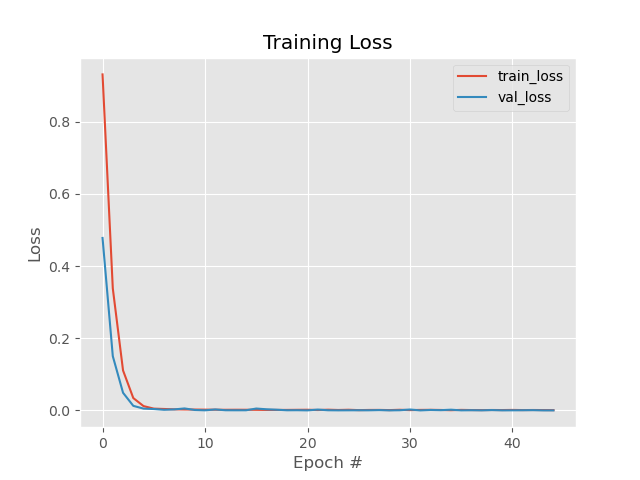
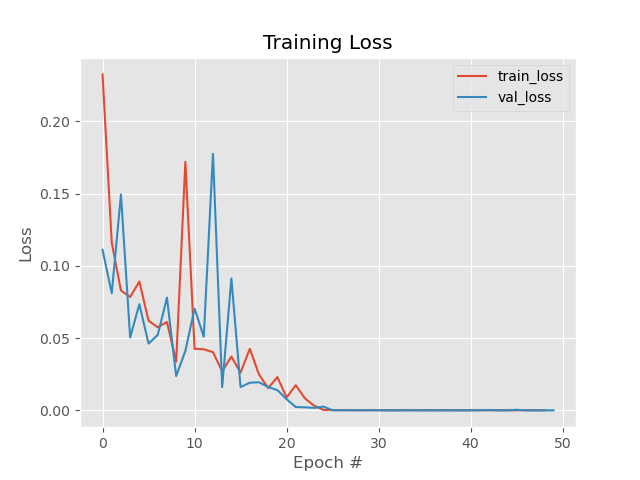
multi time step forecasting

diff --git a/predict.py b/predict.py
@@ -3,6 +3,7 @@ import matplotlib.pyplot as plt
 import torch
 import numpy as np
 import pdb
+from hyperparams import Hyperparameters as hp
 
 
 def load_model(path: str = './output/model.pth') -> torch.nn.Module:
@@ -15,80 +16,51 @@ def main():
     model = load_model(path='./output/model.pth')
     model.eval()
 
-    # simulator = CWSimulator(N_TRAJ=1)
+    simulator = CWSimulator(N_TRAJ=1)
     # Create test data from simulator.py
-    # trajectories = simulator.simulate_trajectories()
+    trajectories = simulator.simulate_trajectories()
 
-    dt = 10 # seconds. Time step
-    T = 60*60 # seconds. Period of the orbit
-    n = 2*np.pi/T # rad/s. Orbital rate
-    N_TRAJ = 1 # Number of trajectories
-    SEQUENCE_LENGTH = 10 # Number of time steps to use for prediction
-    max_t = T # seconds. Maximum time to simulate
-    times = torch.arange(0, max_t+dt, dt)
-    x = (
-        (2 * 0.1 / n - 3 * 1) * torch.cos(n * times)
-        + 0.1 / n * torch.sin(n * times)
-        + (4 * 1 - 2 * 0.1 / n)
-    )   
+    trajectories = torch.tensor(trajectories).float()
+
+    # if 2D, add a third dimension
+    if len(trajectories.shape) == 2:
+        trajectories = trajectories.unsqueeze(2)
+    print(f'trajectories shape: {trajectories.shape}')
+
+    seq_length = simulator.SEQUENCE_LENGTH
 
 
-
-    seq_length = SEQUENCE_LENGTH
-    ynn = np.zeros((len(times)))
-    ynn[0:seq_length] = x[0:seq_length]
-    print(f'lenght of times: {len(times)}')
-    with torch.no_grad():
-        for k in range(seq_length, len(times)):
-            rnn_input = torch.tensor(ynn[k - seq_length:k]).float().unsqueeze(1).unsqueeze(0)
-            # import pdb; pdb.set_trace()
-            # print(f'rnn_input shape: {rnn_input.shape}')
-            # pdb.set_trace()
-
-            output = model(rnn_input).squeeze().numpy()
-            # print(f'output shape: {np.shape(output)}')
-            ynn[k] = output
-
+    ynn = np.zeros((simulator.N_TRAJ, len(simulator.times), hp.N_INPUT_FEATURES))
+    ynn[:, 0:seq_length, :] = trajectories[:, 0:seq_length, :]
+    print(f'lenght of times: {len(simulator.times)}')
     
-    fig, ax = plt.subplots(1,1,subplot_kw={'projection': '3d'})
+    with torch.no_grad():
+        for j in range(simulator.N_TRAJ):
+            for k in range(seq_length, len(simulator.times) - hp.N_FUTURE_STEPS, hp.N_FUTURE_STEPS):
+                # rnn_input = torch.tensor(ynn[j, k - seq_length:k, :]).float().unsqueeze(0)
+                rnn_input = trajectories[j, k - seq_length:k, :].unsqueeze(0)
 
-    ax.plot(times, x, linewidth=1)
-    ax.scatter(0, x[0], color='r')
-    ax.plot(times, ynn, linewidth=1, linestyle='--')
-    ax.scatter(seq_length, ynn[seq_length], color='m')
+                output = model(rnn_input).numpy()
+                # print(f'output shape: {np.shape(output)}')
+                ynn[j, k:k+hp.N_FUTURE_STEPS, :] = output
+
+
+    _, ax = plt.subplots(2,1)
+    for j in range(simulator.N_TRAJ):
+
+        x = trajectories[j,:,:].squeeze().numpy()
+        ax[0].plot(simulator.times, x, linewidth=1,marker='o')
+        # ax.scatter(x[0], color='r')
+        x_ = ynn[j,:,:].squeeze()
+        ax[0].plot(simulator.times, x_, linewidth=1, linestyle='--', marker='x')
+        # ax.scatter(x_[seq_length], color='m')
+
+    ax[0].scatter(0,0, color='k')
+
+    ax[1].plot(simulator.times, x - x_, linewidth=1, marker='o', markersize=0.1)
 
 
     plt.show()
-
-
-    # ynn = np.zeros((simulator.N_TRAJ, len(simulator.times), 3))
-    # ynn[:, 0:seq_length, :] = trajectories[:, 0:seq_length, :]
-    # print(f'lenght of times: {len(simulator.times)}')
-    # with torch.no_grad():
-    #     for j in range(simulator.N_TRAJ):
-    #         for k in range(seq_length, len(simulator.times)):
-    #             rnn_input = torch.tensor(ynn[j, k - seq_length:k, :]).float().unsqueeze(0)
-    #             # import pdb; pdb.set_trace()
-
-    #             # print(f'rnn_input shape: {rnn_input.shape}')
-    #             output = model(rnn_input).squeeze().numpy()
-    #             # print(f'output shape: {np.shape(output)}')
-    #             ynn[j, k, :] = output
-
-    
-    # fig, ax = plt.subplots(1,1,subplot_kw={'projection': '3d'})
-    # for j in range(simulator.N_TRAJ):
-
-    #     x, y, z = trajectories[j,:,:].T
-    #     ax.plot(x, y, z, linewidth=1)
-    #     ax.scatter(x[0], y[0], z[0], color='r')
-    #     x_, y_, z_ = ynn[j,:,:].T
-    #     ax.plot(x_, y_, z_, linewidth=1, linestyle='--')
-    #     ax.scatter(x_[seq_length], y_[seq_length], z_[seq_length], color='m')
-
-    # ax.scatter(0,0, color='k')
-
-    # plt.show()
     pdb.set_trace()
                 
 if __name__ == '__main__':

diff --git a/train_rnn.py b/train_rnn.py
@@ -18,12 +18,16 @@ from simulator import CWSimulator
 from hyperparams import Hyperparameters as hp
 from rnn import LSTM
 
+import pdb
 # test_data = datasets.KMNIST(
 #     root="data",
 #     train=False,
 #     download=True,
 #     transform=transform,
 # )
+
+
+
 
 class Trainer():
 
@@ -59,7 +63,6 @@ class Trainer():
 
             pred = model(X)
             loss = loss_fn(pred, y)
-
 
             optimizer.zero_grad()
             loss.backward()
@@ -119,8 +122,7 @@ class Trainer():
 
 def main():
 
-    N_INPUT_FEATURES = 1 # 1D
-
+      
     ap = argparse.ArgumentParser()
     ap.add_argument("-lr", "--learning_rate", type=float, default=hp.INIT_LR, help="learning rate")
     ap.add_argument("-bs", "--batch_size", type=int, default=hp.BATCH_SIZE, help="batch size")
@@ -149,8 +151,8 @@ def main():
     print(f'[INFO] Creating datasets...')
     print("[INFO] generating the train/validation split...")
     train_split = int(trajectories.shape[0] * hp.TRAIN_SPLIT)
-    training_data = CWTrajDataset(trajectories=trajectories[:train_split], sequence_len=simulator.SEQUENCE_LENGTH, n_input_features=N_INPUT_FEATURES)
-    val_data = CWTrajDataset(trajectories=trajectories[train_split:], sequence_len=simulator.SEQUENCE_LENGTH, n_input_features=N_INPUT_FEATURES)
+    training_data = CWTrajDataset(trajectories=trajectories[:train_split], sequence_len=simulator.SEQUENCE_LENGTH, n_input_features=hp.N_INPUT_FEATURES, future_len=hp.N_FUTURE_STEPS)
+    val_data = CWTrajDataset(trajectories=trajectories[train_split:], sequence_len=simulator.SEQUENCE_LENGTH, n_input_features=hp.N_INPUT_FEATURES, future_len=hp.N_FUTURE_STEPS)
 
     # print(f'Length of training data: {len(training_data)}')
     # training_data_size = int(len(training_data) * hp.TRAIN_SPLIT)
@@ -163,6 +165,7 @@ def main():
     # print(f'dataloader length: {len(train_dataloader)}')
 
     # batch, truth = next(iter(train_dataloader)) 
+    # import pdb; pdb.set_trace()
     # print(f'batch length: {len(batch)}')
     # fig, ax = plt.subplots(1,1)
     # for i in range(batch.shape[0]):
@@ -177,10 +180,10 @@ def main():
     # import pdb; pdb.set_trace()
 
     # model, loss function and optimization strategy definition
-    model = LSTM(input_size=N_INPUT_FEATURES, hidden_size=hp.HIDDEN_SIZE, output_size=N_INPUT_FEATURES, num_layers=hp.NUM_LAYERS).to(device)
+    model = LSTM(input_size=hp.N_INPUT_FEATURES, hidden_size=hp.HIDDEN_SIZE, output_size=hp.N_FUTURE_STEPS, num_layers=hp.NUM_LAYERS).to(device)
     loss_fn = nn.MSELoss()
     optimizer = Adam(model.parameters(), lr=hp.INIT_LR) # 
-    # scheduler = MultiStepLR(optimizer, milestones=[200,600, 800], gamma=0.1)
+    scheduler = MultiStepLR(optimizer, milestones=hp.MILESTONES, gamma=0.1)
 
     H = {
         "train_loss": [],
@@ -196,7 +199,7 @@ def main():
         print(f"Epoch {t+1}/{args["epochs"]}\n-------------------------------")
         train_loss = trainer.train(train_dataloader, model, loss_fn, optimizer, device)
         val_loss = trainer.validate(val_dataloader, model, loss_fn, device)
-        # scheduler.step()
+        scheduler.step()
         # print(f'Learning rate: {scheduler.get_last_lr()}')
 
         H["train_loss"].append(train_loss)

diff --git a/dataset.py b/dataset.py
@@ -4,21 +4,22 @@ from torch.utils.data import Dataset
 
 
 class CWTrajDataset(Dataset):
-    def __init__(self, trajectories: torch.Tensor, sequence_len: int, transform=None, target_transform=None, n_input_features: int=1):
+    def __init__(self, trajectories: torch.Tensor, sequence_len: int, transform=None, target_transform=None, n_input_features: int=1, future_len: int=5):
         
         self.trajectories = trajectories
         self.n_traj = trajectories.shape[0]
         self.traj_len = trajectories.shape[1]
         self.sequence_len = sequence_len
         self.n_input_features = n_input_features
+        self.future_len = future_len    
 
         self.inputs = torch.zeros((self.n_traj * (self.traj_len - self.sequence_len - 1), self.sequence_len, n_input_features))
-        self.outputs = torch.zeros((self.n_traj * (self.traj_len - self.sequence_len - 1), n_input_features))
+        self.outputs = torch.zeros((self.n_traj * (self.traj_len - self.sequence_len - 1), self.future_len, n_input_features))
 
         for j in range(self.n_traj):
-            for k in range(self.traj_len - self.sequence_len - 1):
-                self.inputs[j * (self.traj_len - self.sequence_len - 1) + k, :, :] = self.trajectories[j, k:k + self.sequence_len, :]
-                self.outputs[j * (self.traj_len - self.sequence_len - 1) + k, :] = self.trajectories[j, k + self.sequence_len, :]
+            for k in range(self.traj_len - self.sequence_len - self.future_len - 1):
+                self.inputs[j * (self.traj_len - self.sequence_len - self.future_len - 1) + k, :, :] = self.trajectories[j, k:(k + self.sequence_len), :]
+                self.outputs[j * (self.traj_len - self.sequence_len - self.future_len - 1) + k, :, :] = self.trajectories[j, (k + self.sequence_len): (k + self.sequence_len + self.future_len), :]
                 
         self.transform = transform
         self.target_transform = target_transform
@@ -34,7 +35,7 @@ class CWTrajDataset(Dataset):
         if self.transform:
             input = self.transform(input)
 
-        output = self.outputs[idx,:]
+        output = self.outputs[idx,:,:]
         if self.target_transform:
             output = self.target_transform(output)
         return input, output

diff --git a/simulator.py b/simulator.py
@@ -47,42 +47,4 @@ class CWSimulator():
 
         X_t = np.asarray([[self.relative_position(X_i=X_i, t=t) for t in self.times] for X_i in X_is])
 
-        # , subplot_kw={'projection': '3d'}
-        # fig, ax = plt.subplots(1,1)
-        # for j in range(N_TRAJ):
-        #     x, y, z = X_t[j,:,:].T
-            # , z, , z[0], ,0
-        #     ax.plot(x, y, linewidth=1)
-        #     ax.scatter(x[0],y[0], color='r')
-        # ax.scatter(0,0, color='k')
-        # plt.show()
-
         return X_t
-
-    # def create_training_data(self, X_t: np.ndarray=0) -> tuple[np.ndarray, np.ndarray]:
-
-        # rnn_input = np.zeros((self.N_TRAJ * (len(self.times) - self.SEQUENCE_LENGTH - 1), self.SEQUENCE_LENGTH, 3))
-        # rnn_output = np.zeros((self.N_TRAJ * (len(self.times) - self.SEQUENCE_LENGTH - 1), 3))
-
-        # for j in range(self.N_TRAJ):
-        #     for k in range(len(self.times) - self.SEQUENCE_LENGTH - 1):
-        #         rnn_input[j * (len(self.times) - self.SEQUENCE_LENGTH - 1) + k, :, :] = X_t[j, k:k + self.SEQUENCE_LENGTH, :]
-        #         rnn_output[j * (len(self.times) - self.SEQUENCE_LENGTH - 1) + k, :] = X_t[j, k + self.SEQUENCE_LENGTH, :]
-
-        # x = (
-        #     (2 * 0.1 / self.n - 3 * 1) * torch.cos(self.n * self.times)
-        #     + 0.1 / self.n * torch.sin(self.n * self.times)
-        #     + (4 * 1 - 2 * 0.1 / self.n)
-        # )
-
-        # print(f'x shape: {x.shape}')
-
-        # rnn_input = torch.zeros(((len(self.times) - self.SEQUENCE_LENGTH - 1), self.SEQUENCE_LENGTH))
-        # rnn_output = torch.zeros((len(self.times) - self.SEQUENCE_LENGTH - 1))
-
-        # for k in range(len(self.times) - self.SEQUENCE_LENGTH - 1):
-        #     rnn_input[k, :] = x[k:k + self.SEQUENCE_LENGTH]
-        #     rnn_output[k] = x[k + self.SEQUENCE_LENGTH]
-
-        # print(f'rnn_input shape: {rnn_input.shape}, rnn_output shape: {rnn_output.shape}')
-        # return rnn_input.unsqueeze(-1).float(), rnn_output.unsqueeze(-1).float()

diff --git a/hyperparams.py b/hyperparams.py
@@ -3,11 +3,15 @@ from dataclasses import dataclass
 @dataclass
 class Hyperparameters:
     # define training hyperparameters
-    INIT_LR: float = 1e-3
+    INIT_LR: float = 1e-2
     BATCH_SIZE: int = 32
     EPOCHS: int = 50
     # define the train and val splits
     TRAIN_SPLIT: float = 0.75
     VAL_SPLIT: float = 1 - TRAIN_SPLIT
     HIDDEN_SIZE: int = 16
+    MILESTONES = [25,50]
     NUM_LAYERS: int = 2
+
+    N_INPUT_FEATURES: int = 1 # 1D
+    N_FUTURE_STEPS: int = 20

diff --git a/rnn.py b/rnn.py
@@ -21,7 +21,7 @@ class LSTM(nn.Module):
         # print(f'h0 shape: {h0.shape}, c0 shape: {c0.shape}')
         out, _ = self.lstm(x, (h0, c0))
         # import pdb; pdb.set_trace()
-        out = self.linear(out[:, -1, :])
+        out = self.linear(out[:, -1, :]).unsqueeze(2)
         # pdb.set_trace()
         return out
     
